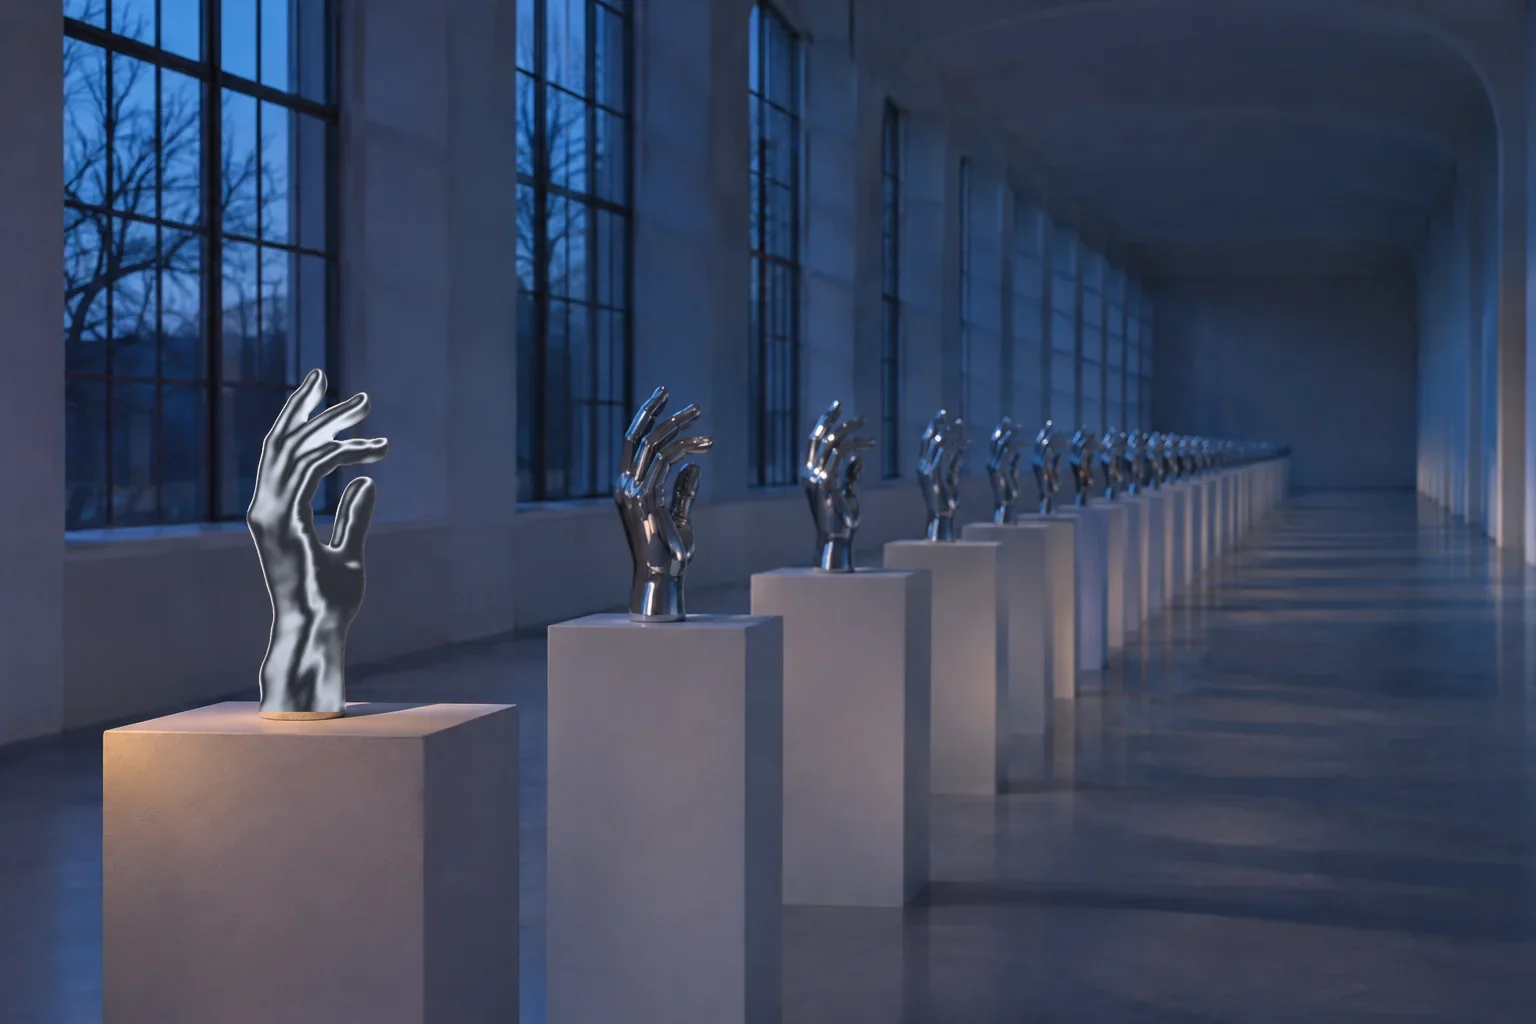
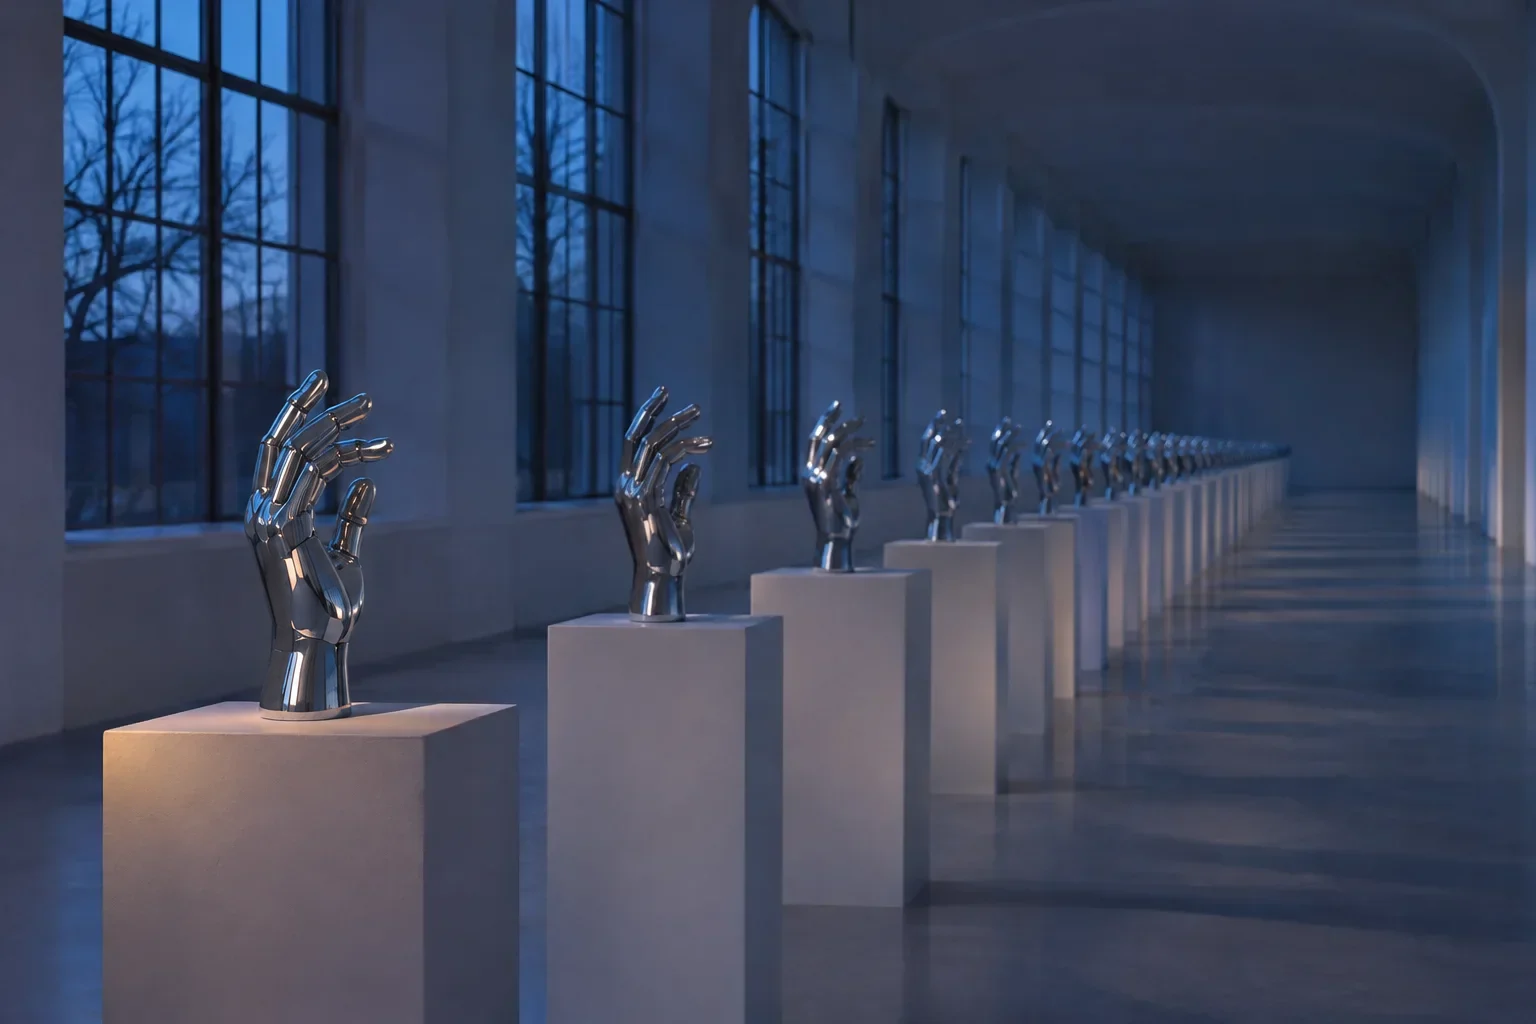
samurai-renewal: top P1 front hand now robotic chrome

Changed region(s): [[0.1562, 0.3438, 0.25, 0.7188]]

diff --git a/docs/samurai-renewal/top/index.html b/docs/samurai-renewal/top/index.html
@@ -366,7 +366,7 @@ body.mopen .hd .logo img{filter:invert(1)}
 <section class="sec" id="story">
   <div class="sh"><h2>STORY</h2><p class="jp">ストーリー</p></div>
   <div class="srs jp">
-      <div class="sx l" data-f><figure class="repl"><div class="lyr rb"><img src="img/story/s1b.webp" alt="白い展示室で、奥まで並ぶ手の彫刻が石膏からクロームへ置き換わっていく。奥から差す光とともに" loading="lazy"></div><div class="lyr hms" aria-hidden="true"><img src="img/story/s1c.webp" alt="" loading="lazy" style="-webkit-mask-image:url(img/story/m/m0.png);mask-image:url(img/story/m/m0.png)"><img src="img/story/s1c.webp" alt="" loading="lazy" style="-webkit-mask-image:url(img/story/m/m1.png);mask-image:url(img/story/m/m1.png)"><img src="img/story/s1c.webp" alt="" loading="lazy" style="-webkit-mask-image:url(img/story/m/m2.png);mask-image:url(img/story/m/m2.png)"><img src="img/story/s1c.webp" alt="" loading="lazy" style="-webkit-mask-image:url(img/story/m/m3.png);mask-image:url(img/story/m/m3.png)"><img src="img/story/s1c.webp" alt="" loading="lazy" style="-webkit-mask-image:url(img/story/m/m4.png);mask-image:url(img/story/m/m4.png)"><img src="img/story/s1c.webp" alt="" loading="lazy" style="-webkit-mask-image:url(img/story/m/m5.png);mask-image:url(img/story/m/m5.png)"><img src="img/story/s1c.webp" alt="" loading="lazy" style="-webkit-mask-image:url(img/story/m/m6.png);mask-image:url(img/story/m/m6.png)"><img src="img/story/s1c.webp" alt="" loading="lazy" style="-webkit-mask-image:url(img/story/m/m7.png);mask-image:url(img/story/m/m7.png)"><img src="img/story/s1c.webp" alt="" loading="lazy" style="-webkit-mask-image:url(img/story/m/m8.png);mask-image:url(img/story/m/m8.png)"><img src="img/story/s1c.webp" alt="" loading="lazy" style="-webkit-mask-image:url(img/story/m/m9.png);mask-image:url(img/story/m/m9.png)"><img src="img/story/s1c.webp" alt="" loading="lazy" style="-webkit-mask-image:url(img/story/m/m10.png);mask-image:url(img/story/m/m10.png)"><img src="img/story/s1c.webp" alt="" loading="lazy" style="-webkit-mask-image:url(img/story/m/m11.png);mask-image:url(img/story/m/m11.png)"></div><i class="vp" aria-hidden="true"></i></figure><div class="tc"><p class="t">「誰かの役に立つ」という営みの中で、これまで人間が担ってきた“考えること”や“実行すること”の一部が、いま急速にAIへと置き換わりつつあります。変化の激しさが増し続けるこの時代において、マクロな視点では人間らしさを、ミクロな視点では自分らしさを保ちながら、どう生き残っていくべきか。私たちはその問いを日々考え続けています。</p></div></div>
+      <div class="sx l" data-f><figure class="repl"><div class="lyr rb"><img src="img/story/s1b.webp" alt="白い展示室で、奥まで並ぶ手の彫刻が石膏からクロームへ置き換わっていく。奥から差す光とともに" loading="lazy"></div><div class="lyr hms" aria-hidden="true"><img src="img/story/s1c.webp?v=2" alt="" loading="lazy" style="-webkit-mask-image:url(img/story/m/m0.png);mask-image:url(img/story/m/m0.png)"><img src="img/story/s1c.webp?v=2" alt="" loading="lazy" style="-webkit-mask-image:url(img/story/m/m1.png);mask-image:url(img/story/m/m1.png)"><img src="img/story/s1c.webp?v=2" alt="" loading="lazy" style="-webkit-mask-image:url(img/story/m/m2.png);mask-image:url(img/story/m/m2.png)"><img src="img/story/s1c.webp?v=2" alt="" loading="lazy" style="-webkit-mask-image:url(img/story/m/m3.png);mask-image:url(img/story/m/m3.png)"><img src="img/story/s1c.webp?v=2" alt="" loading="lazy" style="-webkit-mask-image:url(img/story/m/m4.png);mask-image:url(img/story/m/m4.png)"><img src="img/story/s1c.webp?v=2" alt="" loading="lazy" style="-webkit-mask-image:url(img/story/m/m5.png);mask-image:url(img/story/m/m5.png)"><img src="img/story/s1c.webp?v=2" alt="" loading="lazy" style="-webkit-mask-image:url(img/story/m/m6.png);mask-image:url(img/story/m/m6.png)"><img src="img/story/s1c.webp?v=2" alt="" loading="lazy" style="-webkit-mask-image:url(img/story/m/m7.png);mask-image:url(img/story/m/m7.png)"><img src="img/story/s1c.webp?v=2" alt="" loading="lazy" style="-webkit-mask-image:url(img/story/m/m8.png);mask-image:url(img/story/m/m8.png)"><img src="img/story/s1c.webp?v=2" alt="" loading="lazy" style="-webkit-mask-image:url(img/story/m/m9.png);mask-image:url(img/story/m/m9.png)"><img src="img/story/s1c.webp?v=2" alt="" loading="lazy" style="-webkit-mask-image:url(img/story/m/m10.png);mask-image:url(img/story/m/m10.png)"><img src="img/story/s1c.webp?v=2" alt="" loading="lazy" style="-webkit-mask-image:url(img/story/m/m11.png?v=2);mask-image:url(img/story/m/m11.png?v=2)"></div><i class="vp" aria-hidden="true"></i></figure><div class="tc"><p class="t">「誰かの役に立つ」という営みの中で、これまで人間が担ってきた“考えること”や“実行すること”の一部が、いま急速にAIへと置き換わりつつあります。変化の激しさが増し続けるこの時代において、マクロな視点では人間らしさを、ミクロな視点では自分らしさを保ちながら、どう生き残っていくべきか。私たちはその問いを日々考え続けています。</p></div></div>
       <div class="sx tx" data-f><div class="tc"><p class="t">AIは高い合理性をもって答えを返しますが、一方、その合理性は、前提となるプロンプトや、使う人それぞれの立場や経験、価値観に大きく左右される構造にあります。つまり、ひとつの正解に収束するのではなく、<span class="echo"><span class="gh g1" aria-hidden="true">無数の“もっともらしさ”</span><span class="gh g2" aria-hidden="true">無数の“もっともらしさ”</span><span class="gh g3" aria-hidden="true">無数の“もっともらしさ”</span><span class="gh g4" aria-hidden="true">無数の“もっともらしさ”</span><span class="gh g5" aria-hidden="true">無数の“もっともらしさ”</span><span class="ew">無数の“もっともらしさ”</span></span>が生まれ続け、エントロピー増大の法則が文字通り起きている時代に入ったと捉えています。</p></div></div>
       <div class="sx r" data-f><figure class="tvw"><canvas class="tv" aria-hidden="true"></canvas><img src="img/story/s3.webp" alt="砂嵐を映すテレビが壁一面に積まれ、1台だけが光る線を映している" loading="lazy"></figure><div class="tc"><p class="t">Web上でも、AIによって膨大な情報やコンテンツが生成される時代になりました。そうした環境のなかで重要になるのは、何が本質的なシグナルで、何が一時的なノイズなのかを見極める力だと考えています。</p></div></div>
       <div class="sx q" data-f data-dark><canvas class="qcv" aria-hidden="true"></canvas><p class="t"><span class="nb">では、</span><wbr><span class="nb"><em class="sig">Signal</em>と</span><wbr><span class="nb"><em class="nz"><i>N</i><i>o</i><i>i</i><i>s</i><i>e</i></em>を</span><wbr><span class="nb">見極める要素は</span><wbr><span class="nb">どこに</span><wbr><span class="nb">存在するのでしょうか。</span><wbr></p></div>
